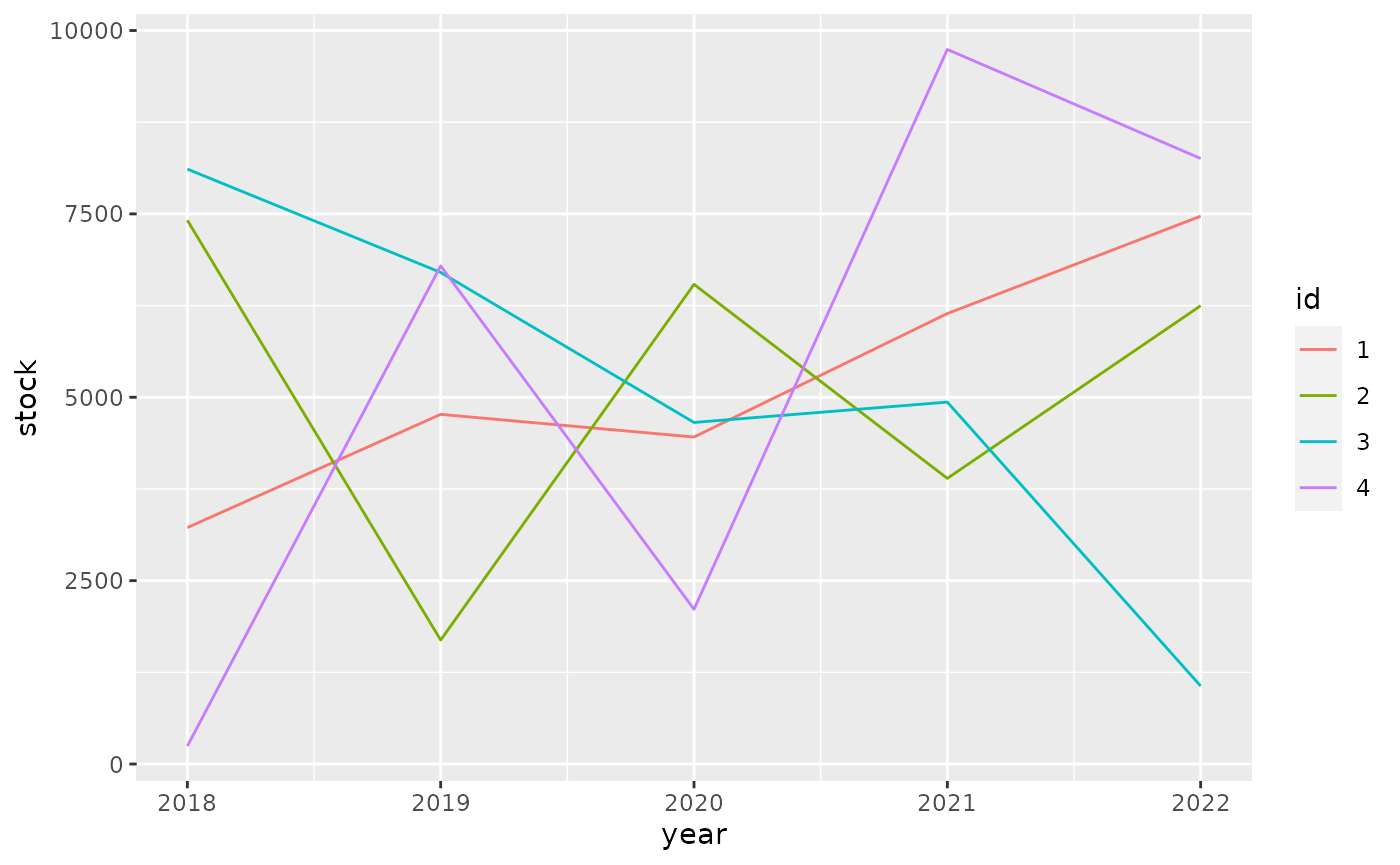
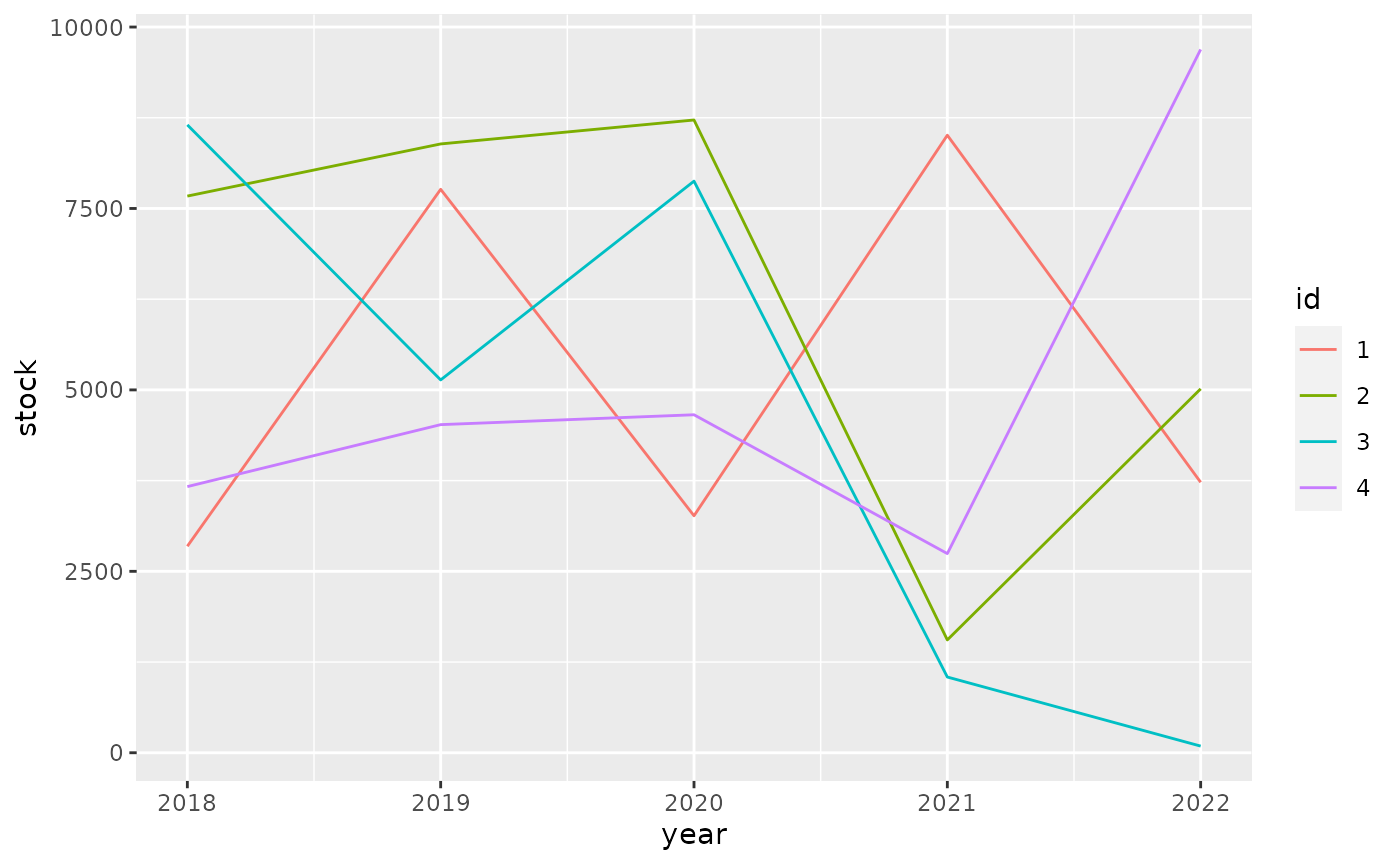
Built site for tibble: 3.1.0@fd811f2

diff --git a/articles/formats.html b/articles/formats.html
@@ -220,10 +220,10 @@
 <span class="co">#&gt; # A tibble: 4 x 6</span>
 <span class="co">#&gt;   id       `2018`    `2019`    `2020`    `2021`    `2022`</span>
 <span class="co">#&gt;   &lt;fct&gt; &lt;dbl:fmt&gt; &lt;dbl:fmt&gt; &lt;dbl:fmt&gt; &lt;dbl:fmt&gt; &lt;dbl:fmt&gt;</span>
-<span class="co">#&gt; 1 1     $3,223.19 $4,767.08 $4,458.13 $6,141.50 $7,469.12</span>
-<span class="co">#&gt; 2 2     $7,413.31 $1,690.39 $6,539.10 $3,894.42 $6,248.23</span>
-<span class="co">#&gt; 3 3     $8,110.65 $6,702.33 $4,656.61 $4,934.10 $1,063.82</span>
-<span class="co">#&gt; 4 4       $244.64 $6,791.33 $2,109.16 $9,741.84 $8,255.22</span></code></pre></div>
+<span class="co">#&gt; 1 1     $2,845.40 $7,764.06 $3,265.45 $8,509.48 $3,726.76</span>
+<span class="co">#&gt; 2 2     $7,670.60 $8,389.22 $8,719.12 $1,554.74 $5,014.45</span>
+<span class="co">#&gt; 3 3     $8,651.99 $5,137.39 $7,876.51 $1,043.51    $91.70</span>
+<span class="co">#&gt; 4 4     $3,667.34 $4,521.35 $4,657.34 $2,744.30 $9,691.33</span></code></pre></div>
 <p>For ggplot2 we need to do <a href="https://github.com/tidyverse/ggplot2/pull/4065" class="external-link">some work</a> to show apply the formatting to the scales.</p>
 <div class="sourceCode" id="cb6"><pre class="downlit sourceCode r">
 <code class="sourceCode R"><span class="kw"><a href="https://rdrr.io/r/base/library.html" class="external-link">library</a></span><span class="op">(</span><span class="va"><a href="https://ggplot2.tidyverse.org" class="external-link">ggplot2</a></span><span class="op">)</span>
@@ -234,10 +234,10 @@
   <span class="fu"><a href="https://ggplot2.tidyverse.org/reference/geom_path.html" class="external-link">geom_line</a></span><span class="op">(</span><span class="op">)</span></code></pre></div>
 <p><img src="formats_files/figure-html/unnamed-chunk-7-1.png" width="700"></p>
 <p>It pays off to specify formatting very early in the process. The diagram below shows the principal stages of data analysis and exploration from “R for data science”.</p>
-<div id="htmlwidget-8b9ef7e5276c83f7e886" style="width:700px;height:432.632880098888px;" class="DiagrammeR html-widget"></div>
-<script type="application/json" data-for="htmlwidget-8b9ef7e5276c83f7e886">{"x":{"diagram":"graph TD\n  Import --> Tidy\n  Tidy --> Transform\n  Transform --> Visualize\n  Visualize --> Communicate\n  Visualize --> Model\n  Model -.-> Transform"},"evals":[],"jsHooks":[]}</script><p>The subsequent diagram adds data formats, communication options, and explicit data formatting. The original r4ds transitions are highlighted in bold. There are two principal options where to apply formatting for results: right before communicating them, or right after importing.</p>
-<div id="htmlwidget-a1a755af973221aaaa06" style="width:700px;height:432.632880098888px;" class="DiagrammeR html-widget"></div>
-<script type="application/json" data-for="htmlwidget-a1a755af973221aaaa06">{"x":{"diagram":"graph TD\n  .csv --> Import\n  API --> Import\n  DBI --> Import\n  dbplyr --> Import\n  Import -.-> Format[Format for analysis]\n  Format -.-> Tidy\n\n  subgraph r4ds\n  Import ==> Tidy\n  Tidy ==> Transform\n  Transform ==> Visualize\n  Visualize ==> Model\n  Model -.-> Transform\n  Visualize ==> Communicate\n  end\n\n  Visualize -.-> FormatComm[Format for communication]\n  FormatComm -.-> Communicate\n\n  FormatComm -- Apply formatting early --> Format\n\n  dbplyr -.-> Tidy\n  dbplyr -.-> Transform\n  dbplyr -.-> Visualize\n\n  Communicate --> gt\n  Communicate --> ggplot2\n  Communicate --> DT\n  Communicate --> plotly"},"evals":[],"jsHooks":[]}</script><p>Applying formatting early in the process gives the added benefit of showing the data in a useful format during the “Tidy”, “Transform”, and “Visualize” stages. For this to be useful, we need to ensure that the formatting options applied early:</p>
+<div id="htmlwidget-bb8dd479a0cb2348c517" style="width:700px;height:432.632880098888px;" class="DiagrammeR html-widget"></div>
+<script type="application/json" data-for="htmlwidget-bb8dd479a0cb2348c517">{"x":{"diagram":"graph TD\n  Import --> Tidy\n  Tidy --> Transform\n  Transform --> Visualize\n  Visualize --> Communicate\n  Visualize --> Model\n  Model -.-> Transform"},"evals":[],"jsHooks":[]}</script><p>The subsequent diagram adds data formats, communication options, and explicit data formatting. The original r4ds transitions are highlighted in bold. There are two principal options where to apply formatting for results: right before communicating them, or right after importing.</p>
+<div id="htmlwidget-1e246d8a2876959d96d6" style="width:700px;height:432.632880098888px;" class="DiagrammeR html-widget"></div>
+<script type="application/json" data-for="htmlwidget-1e246d8a2876959d96d6">{"x":{"diagram":"graph TD\n  .csv --> Import\n  API --> Import\n  DBI --> Import\n  dbplyr --> Import\n  Import -.-> Format[Format for analysis]\n  Format -.-> Tidy\n\n  subgraph r4ds\n  Import ==> Tidy\n  Tidy ==> Transform\n  Transform ==> Visualize\n  Visualize ==> Model\n  Model -.-> Transform\n  Visualize ==> Communicate\n  end\n\n  Visualize -.-> FormatComm[Format for communication]\n  FormatComm -.-> Communicate\n\n  FormatComm -- Apply formatting early --> Format\n\n  dbplyr -.-> Tidy\n  dbplyr -.-> Transform\n  dbplyr -.-> Visualize\n\n  Communicate --> gt\n  Communicate --> ggplot2\n  Communicate --> DT\n  Communicate --> plotly"},"evals":[],"jsHooks":[]}</script><p>Applying formatting early in the process gives the added benefit of showing the data in a useful format during the “Tidy”, “Transform”, and “Visualize” stages. For this to be useful, we need to ensure that the formatting options applied early:</p>
 <ul>
 <li>give a good user experience for analysis
 <ul>

diff --git a/articles/types.html b/articles/types.html
@@ -351,7 +351,7 @@
 #&gt; $ factor        &lt;fct&gt; A
 #&gt; $ ordered       &lt;ord&gt; a
 #&gt; $ Date          &lt;date&gt; 2021-02-25
-#&gt; $ POSIXt        &lt;dttm&gt; 2021-02-25 06:58:47
+#&gt; $ POSIXt        &lt;dttm&gt; 2021-02-25 07:01:42
 #&gt; $ difftime      &lt;drtn&gt; 1 secs
 #&gt; $ hms           &lt;time&gt; 00:00:01
 #&gt; $ integer64     &lt;int64&gt; 10000000000
@@ -381,7 +381,7 @@
 <span class="co">#&gt;             "sym"</span>
 <span class="co">#&gt;         }, typeof(x))</span>
 <span class="co">#&gt; }</span>
-<span class="co">#&gt; &lt;bytecode: 0x558ee7014f88&gt;</span>
+<span class="co">#&gt; &lt;bytecode: 0x55dd30b18ed8&gt;</span>
 <span class="co">#&gt; &lt;environment: namespace:pillar&gt;</span></code></pre></div>
 </div>
   </div>
